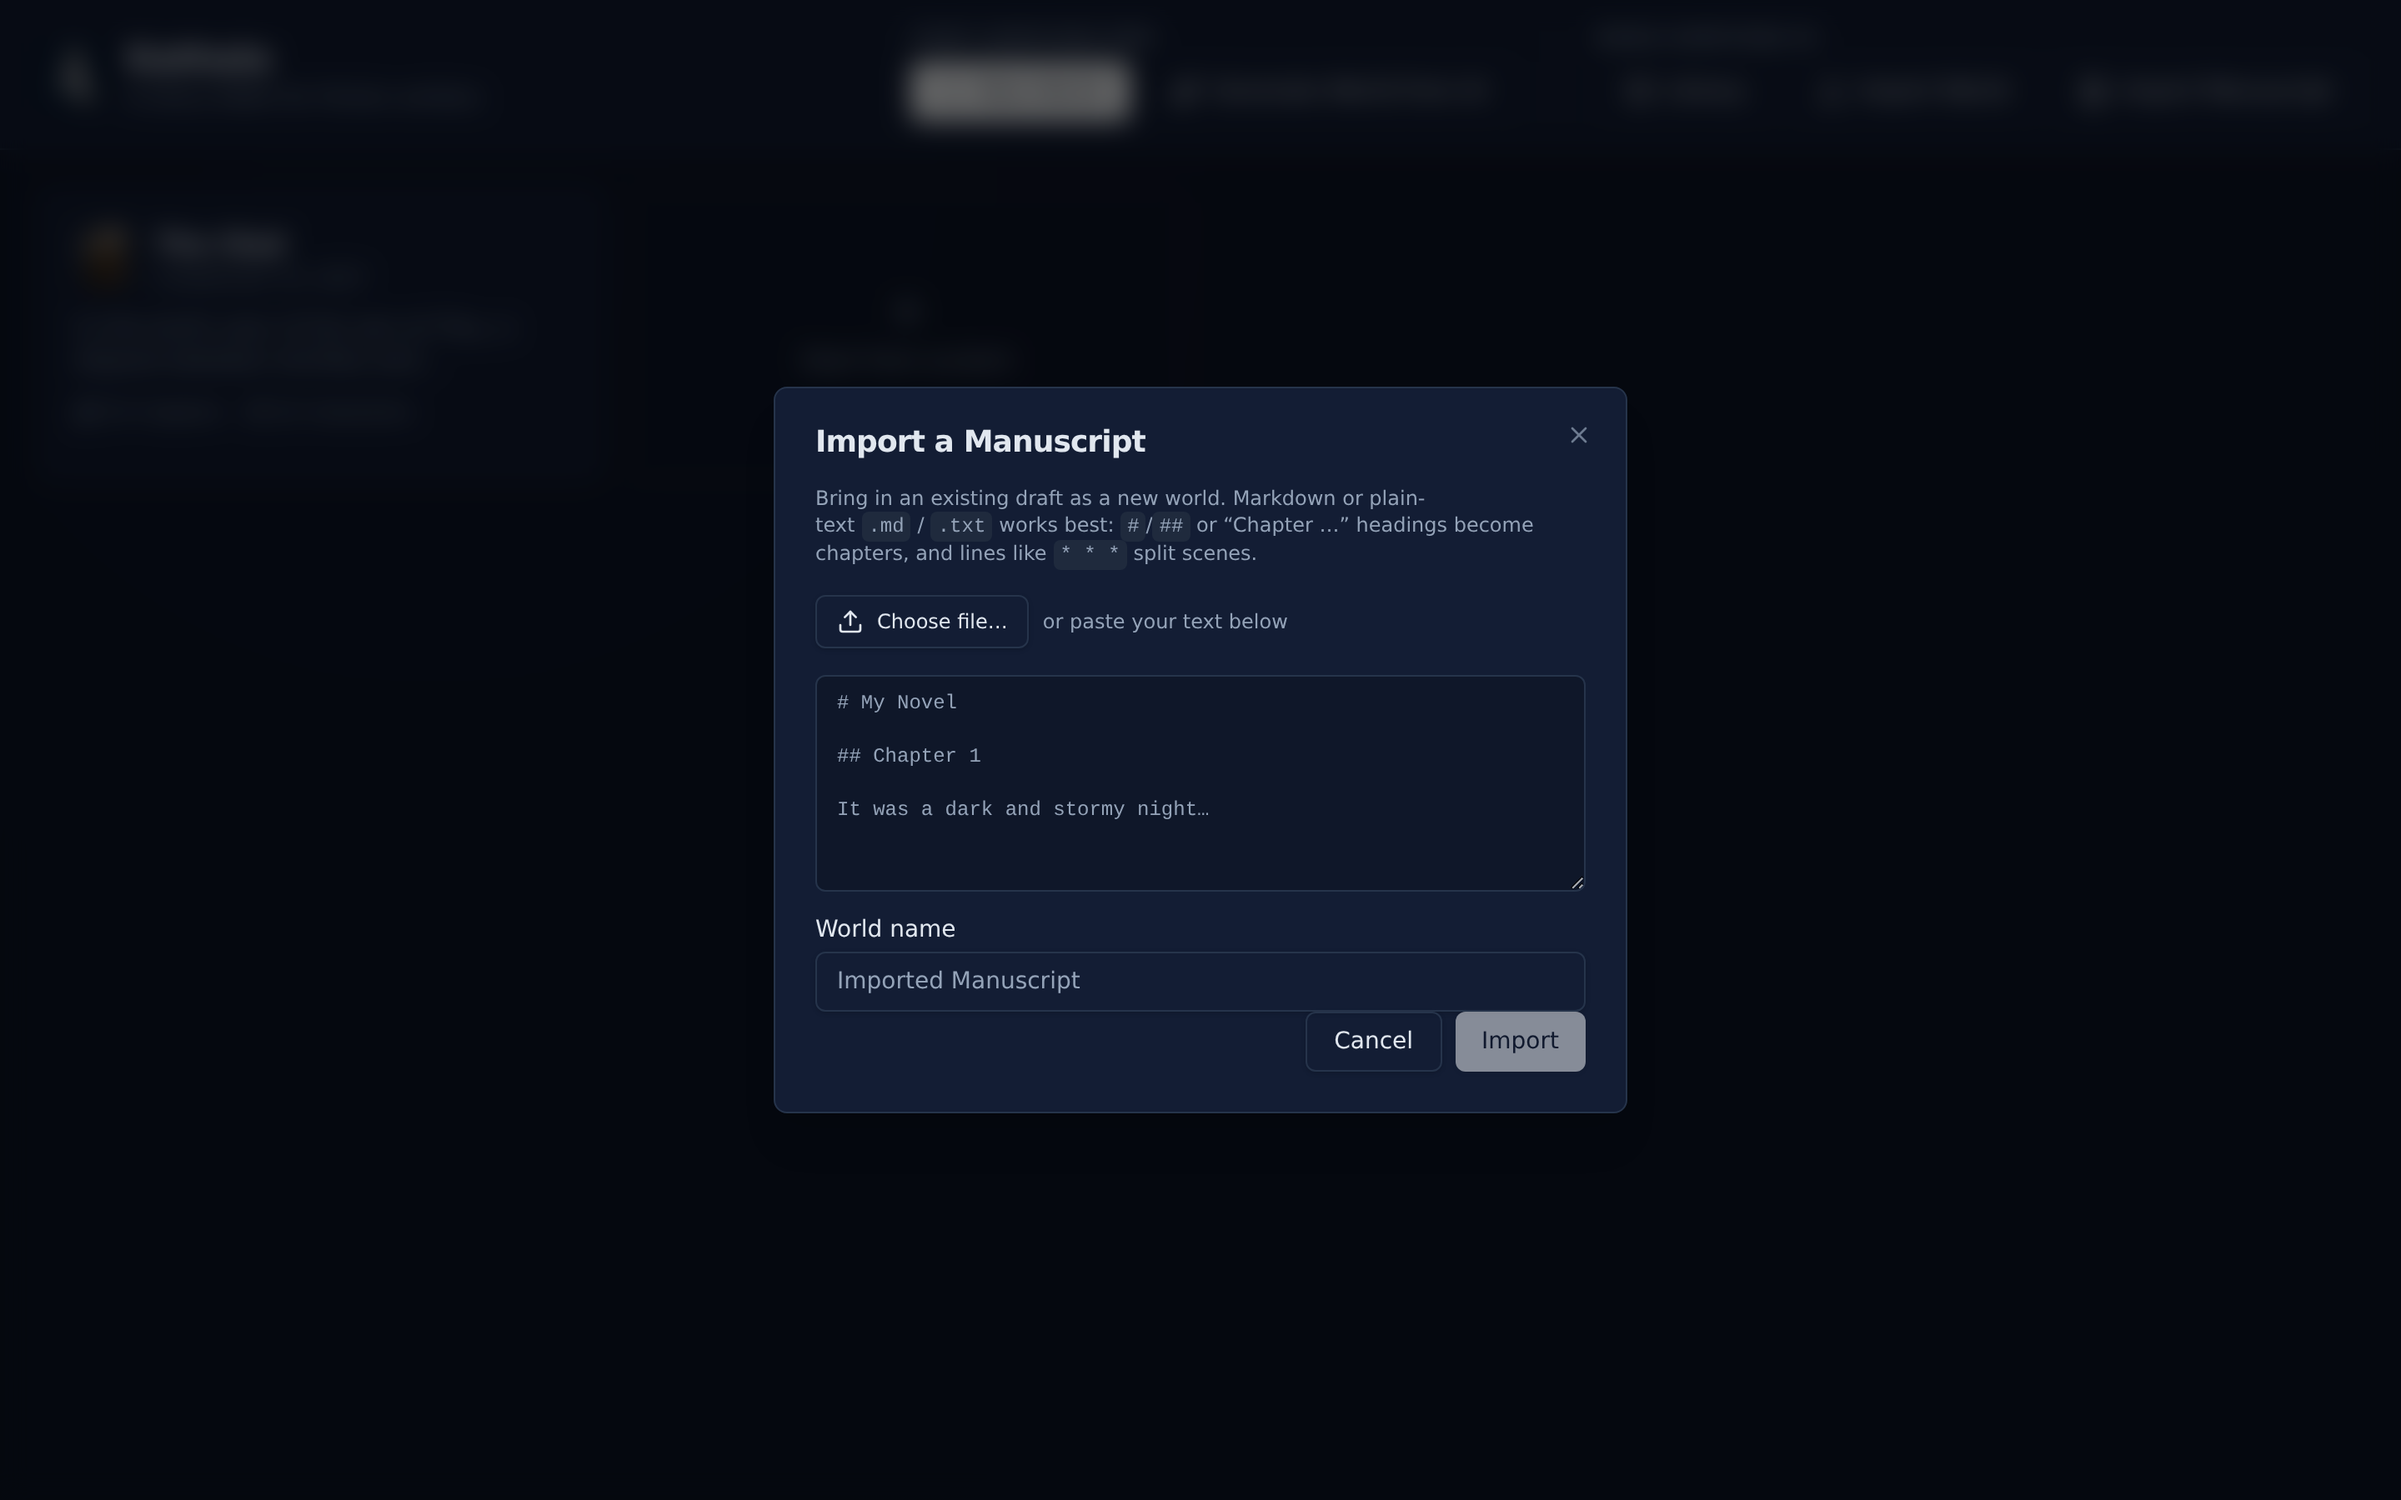
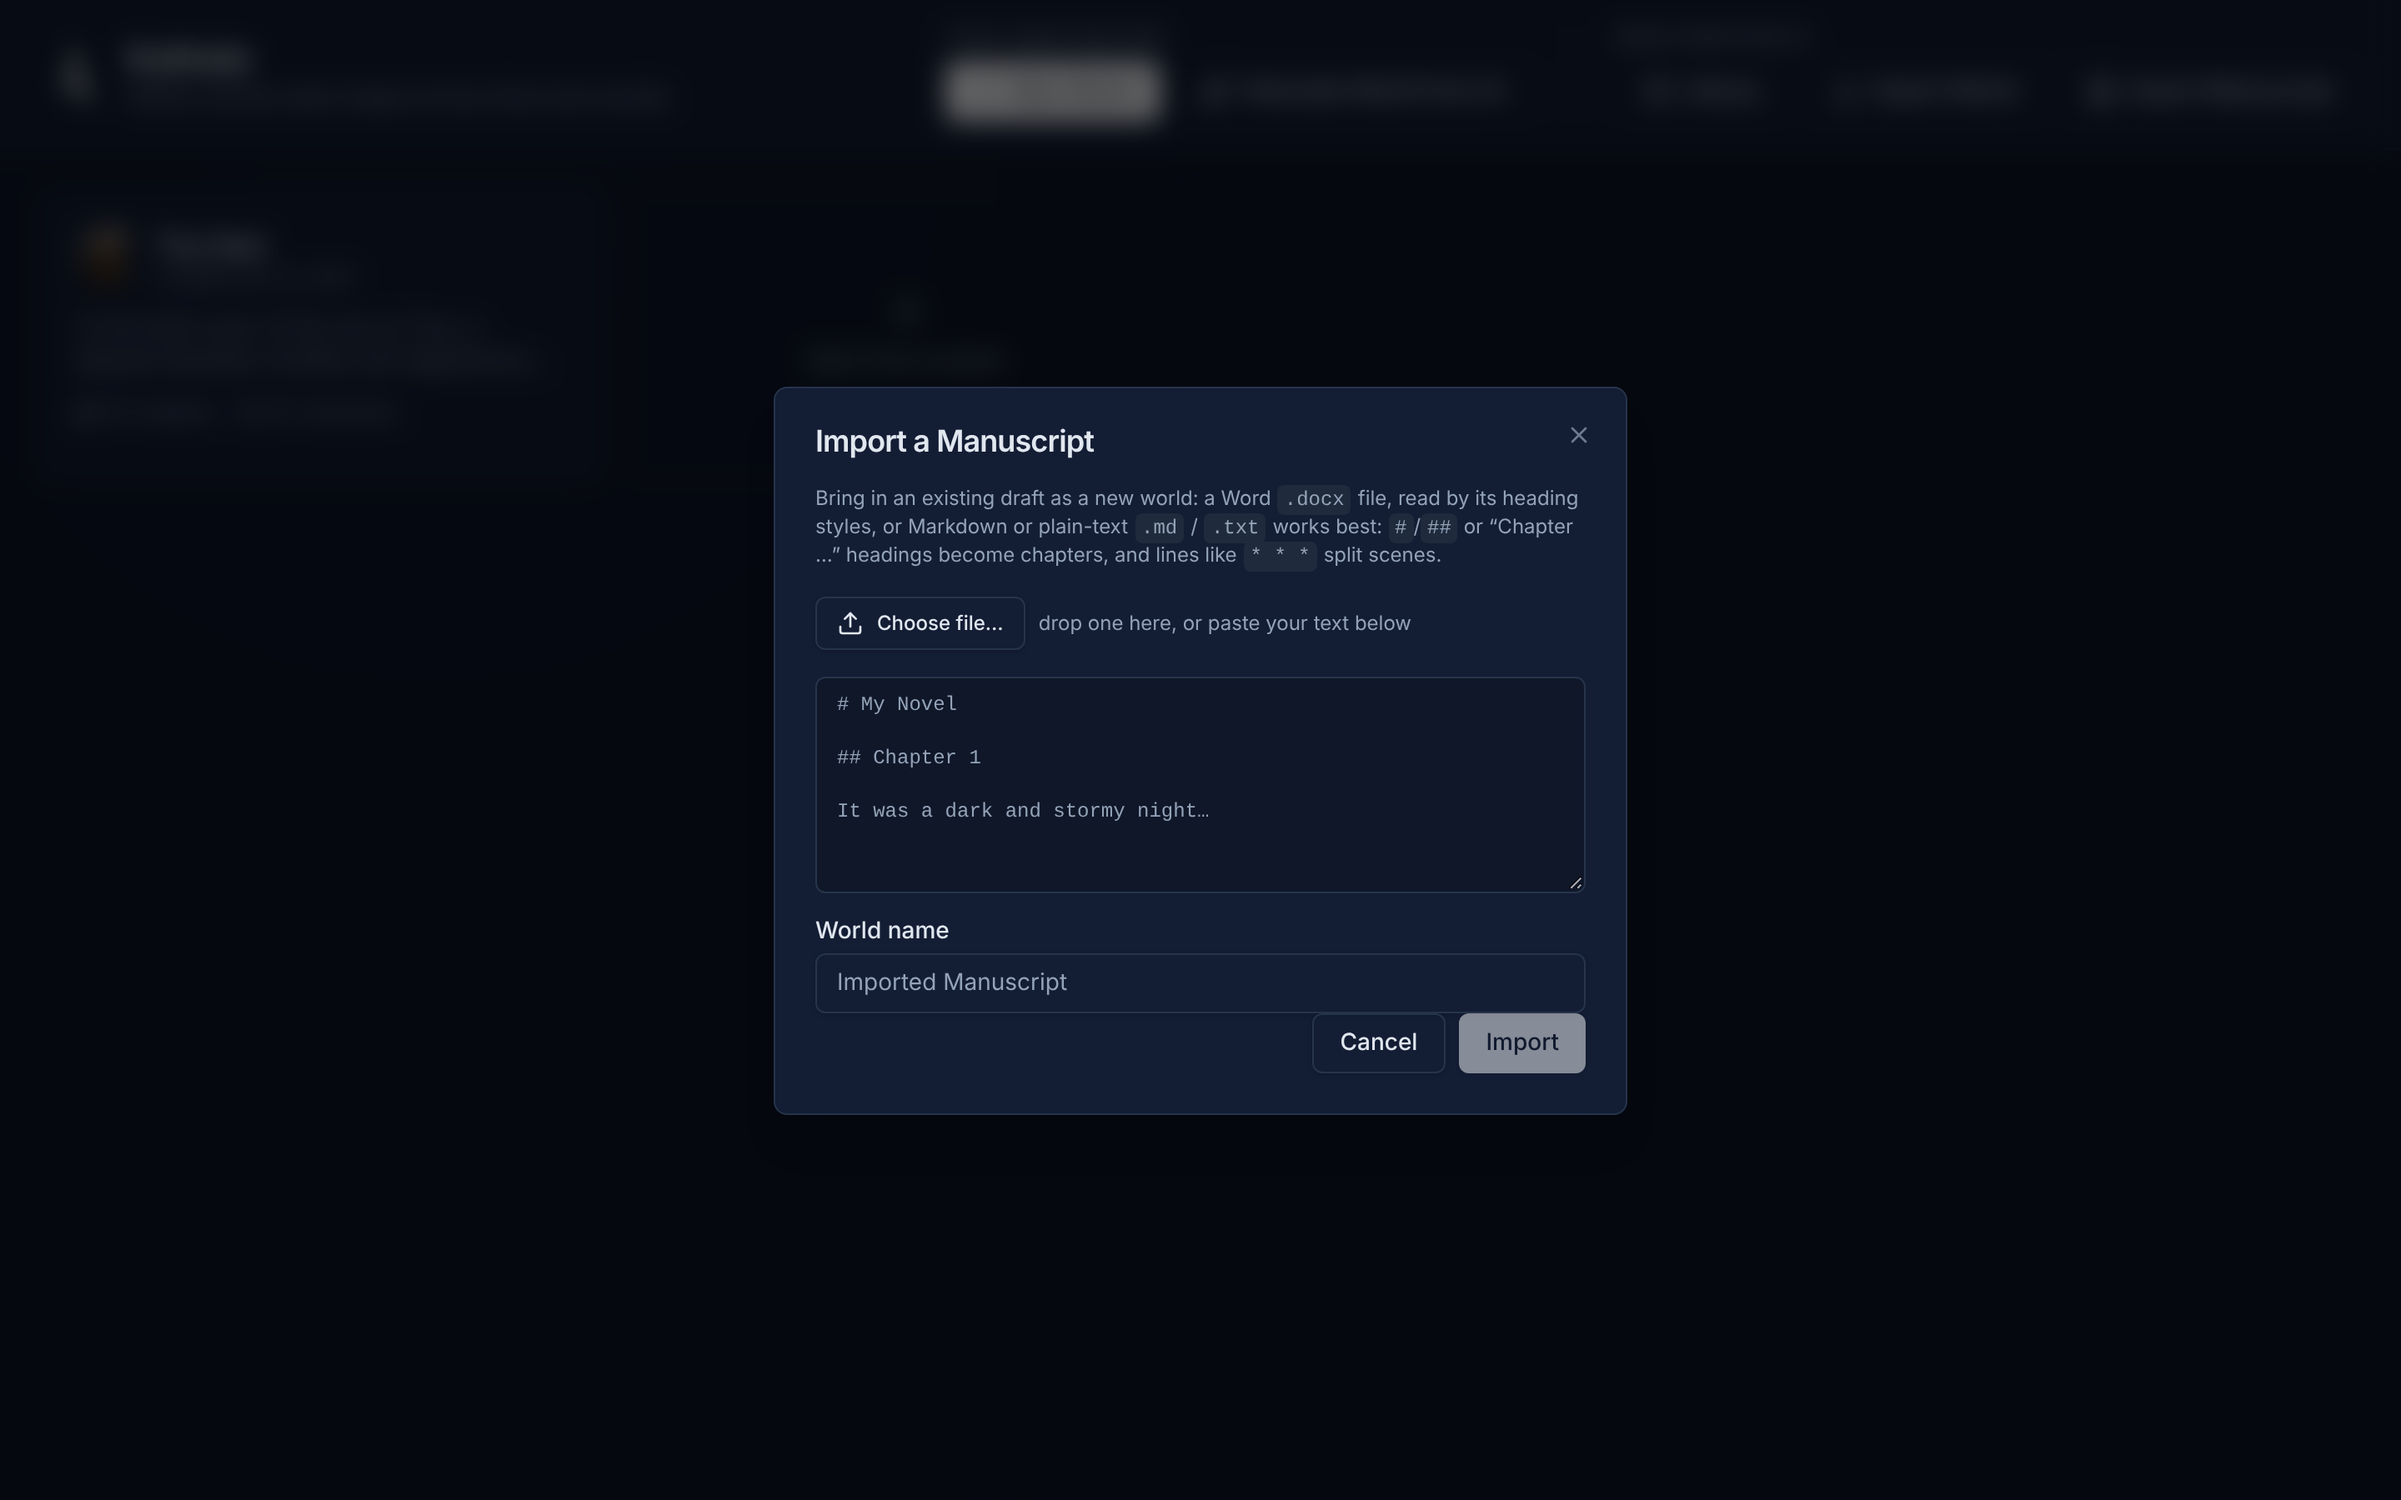
Import from Word: the guide, its screenshots, and the drafts' counts tested (#697)
- GUIDE: Import a manuscript reads a Word draft; a new "From a Word
  draft" section says what comes in, as what, and what is left out; the
  chapter rule says a sentence starting with a chapter word is prose.
- Screenshots 22 retaken and 22b added, captured by the guide script.
- docxDraft tests: 05's words, 08's shape and words with its changes
  accepted, as the record's table claims.

Claude-Session: https://claude.ai/code/session_012HJuZ3q12imk2q9iq8d945

diff --git a/src/lib/__tests__/docxDraft.test.ts b/src/lib/__tests__/docxDraft.test.ts
@@ -59,6 +59,7 @@ describe('the ten drafts measured: each comes in as it holds', () => {
   it('05: parts are not chapters; the chapters under them are, each part given to the chapter it begins (D-3)', async () => {
     const d = await read('05-parts-and-chapters')
     expect(shape(d)).toEqual(truth('05-parts-and-chapters').chapters.map((c) => c.scenes.length))
+    expect(total(d)).toBe(wanted(truth('05-parts-and-chapters')))
     expect(d.manuscript.chapters.slice(0, 4).map((c) => c.title)).toEqual(['Letter I', 'Letter II', 'Letter III', 'Letter IV'])
     expect(d.parts).toEqual([{ chapter: 0, name: 'Part One' }, { chapter: 3, name: 'Part Two' }])
   })
@@ -76,6 +77,10 @@ describe('the ten drafts measured: each comes in as it holds', () => {
   it('08: tracked changes as accepted, and each comment on its words (D-1, D-2)', async () => {
     const d = await read('08-tracked-and-comments')
     expect(d.tracked).toBe(12)
+    const t = truth('08-tracked-and-comments')
+    expect(shape(d)).toEqual(t.chapters.map((c) => c.scenes.length))
+    // The truth file counts the text before its changes: six insertions of two words each are its twelve more.
+    expect(total(d)).toBe(wanted(t) + 12)
     const text = d.manuscript.chapters.flatMap((c) => c.scenes.map((s) => s.text)).join('\n')
     expect(text.match(/Added later\./g)).toHaveLength(6)
     expect(text).not.toContain('Cut since.')

diff --git a/docs/GUIDE.md b/docs/GUIDE.md
@@ -109,6 +109,7 @@ once it loads. Otherwise save the image and upload the file.
 2. [Getting started — the world selector](#getting-started--the-world-selector)
 3. [The library](#the-library)
 4. [Import a manuscript](#import-a-manuscript)
+    - [From a Word draft](#from-a-word-draft)
 5. [Generate a world from AI](#generate-a-world-from-ai)
 6. [Start a sequel](#start-a-sequel)
 7. [The world dashboard](#the-world-dashboard)
@@ -719,13 +720,18 @@ new world in one step, so you don't have to re-enter every chapter by hand. It's
 the mirror image of the manuscript *export* — bring a draft in, and everything
 else (word counts, continuity, pacing, the reading view) works on it immediately.
 
-Choose a `.md` or `.txt` file, or just paste your text. Kathala parses it with
-a few predictable rules:
+Choose a Word `.docx`, a `.md` or a `.txt` file (or drop one on the dialog), or
+just paste your text. A Word draft is read as Word lays it out, below. Text is
+parsed with a few predictable rules:
 
-- **Chapters** — a Markdown `#`/`##` heading, or a line that starts with
-  *Chapter*, *Prologue*, *Epilogue*, or *Part*, begins a new chapter. A `Chapter 7:
-  The Reckoning` heading keeps *The Reckoning* as the title, and so does the
-  Markdown export's own `Ch. 7 — The Reckoning`.
+- **Chapters** — a Markdown `#`/`##` heading, or a line on its own that reads as a
+  chapter heading, begins a new chapter: *Chapter 7*, *Chapter Seven*, *Part Two:
+  The Sea*, *Prologue*, *Epilogue*. A `Chapter 7: The Reckoning` heading keeps
+  *The Reckoning* as the title, and so does the Markdown export's own `Ch. 7 — The
+  Reckoning`. A sentence that only *starts* with one of those words — *Part of the
+  house was dark, and she went on.* — is prose, not a chapter. And a heading typed
+  twice, the second straight under the first with nothing between (*CHAPTER ONE*,
+  then *PROLOGUE*), is one chapter, not two.
 - **Scene titles** — where the chapters are `#` headings, a `##` heading starts a
   scene with that title: the way the Manuscript's Page writes a book, and the way
   Markdown export does with **Scene titles as ## headings**. So a book exported
@@ -748,7 +754,41 @@ straight into the new world.
 Each parsed scene becomes a scene with its prose attached — named by its `##`
 title where it had one, *Scene 1*, *Scene 2* where it did not — so the imported draft
 flows straight onto the Manuscript's Page and Read, and reads back as one continuous document.
-(Import handles Markdown and plain text today; `.docx` is planned.)
+
+### From a Word draft
+
+A `.docx` stands in for the text box: the file is named at the top, with **×** to
+put it back, and the preview says what came in besides the words and what did not.
+
+![Import a Word draft](images/22b-import-word-draft.png)
+
+- **Chapters and scenes by Word's heading styles**, read by the style's name, so a
+  draft written in a French or Portuguese Word (*Titre 1*) reads the same as an
+  English one, and so does a style of your own set to an outline level. Under the
+  chapters' level, the next heading down titles a scene. A draft with no heading
+  styles at all is read by its lines: a chapter heading on a line of its own, or a
+  short line at the top of a new page.
+- **Parts.** Where the top headings are all *Part …*, *Book …* or *Volume …*,
+  the chapters are the headings under them. Kathala has chapters and no parts, so
+  each part's name goes in the notes of the chapter it begins (*Begins Part One*).
+- **Scene breaks** — a line of symbols, a paragraph in a *Scene Break* style, or
+  more empty paragraphs than the draft usually leaves between two of its own.
+- **Italics** come in as italics, whether set by hand or by a character style
+  such as *Emphasis*. Bold and underlining come in as plain words, and the preview
+  says so.
+- **Tracked changes** are taken as accepted: the text as Word shows it with *No
+  Markup*. The preview counts them.
+- **Comments** become notes on the words they were on, with their replies, their
+  dates, and whether they were marked done. One on a chapter's heading or on the
+  title page is a note on that line, as an editor's are when you
+  [bring in their edits](#an-editors-changes-through-word).
+- **A title page** — what stands before the first chapter with no paragraph of
+  prose in it — is not a chapter. Its title (Word's *Title* style, or its large
+  centred line) becomes the world's name; its other lines (contact details, the
+  word count, the byline) and a closing *END* are left out and listed in the
+  preview.
+- **Images, tables, footnotes and endnotes** are left out, and the preview counts
+  each.
 
 ---
 
